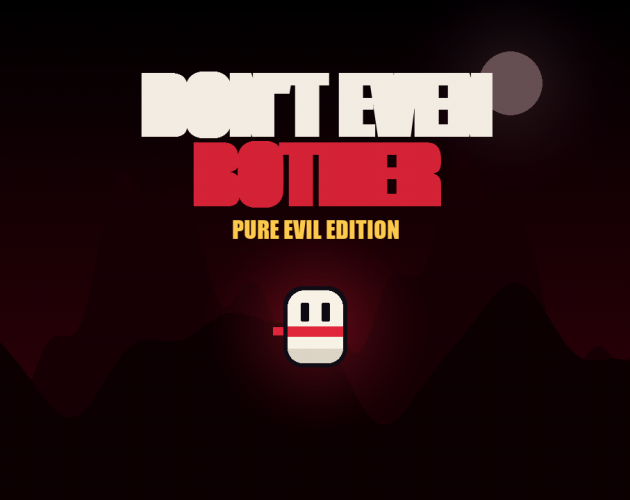
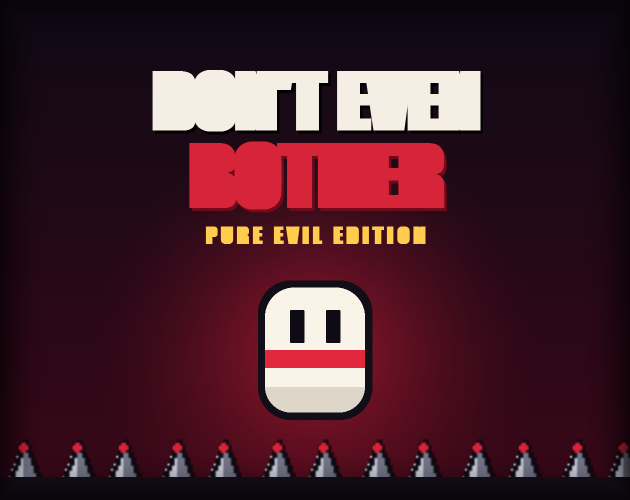
Redraw the cover image so it works as a thumbnail
The first one was cramped and mostly empty: small type, a character floating
in dead space, nothing to look at. itch shows this at 315x250 in listings, so
it has to survive being shrunk.

Now drawn at double size and scaled down to keep the type crisp, with the
title auto-fitted so it can never touch the frame, and composed to fill it:
title above, the character over a bed of spikes below. Checked at 315x250.

diff --git a/Dont even bother/dev_tools/screenshots.py b/Dont even bother/dev_tools/screenshots.py
@@ -81,27 +81,61 @@ def gameplay(game, level, frames, name):
 
 
 def cover(game):
-    """630x500 cover image: the store's thumbnail everywhere on itch."""
-    from graphics import draw_text, Background, dim
-    from settings import THEMES, BLOOD, PAPER, GOLD, VIRTUAL_W, VIRTUAL_H
+    """630x500 cover image - the thumbnail itch shows everywhere.
+
+    Drawn at double size and scaled down, so the type stays crisp, and
+    composed to fill the frame: title up top, the character over a bed of
+    spikes at the bottom. It has to read at thumbnail size, so contrast and
+    size matter more than detail.
+    """
+    from graphics import draw_text, render_text, glow_circle, vertical_gradient, TileArt
+    from settings import THEMES, BLOOD, DARK_BLOOD, PAPER, GOLD, INK, TILE
     import cosmetics
-    from scenes import draw_character_display
 
-    big = pygame.Surface((VIRTUAL_W, VIRTUAL_H))
-    Background(THEMES["abyss"], seed=5).draw(big, 0)
-    dim(big, 110)
+    W, H = 1260, 1000                      # 2x the final size
+    canvas = pygame.Surface((W, H))
+    canvas.blit(pygame.transform.smoothscale(
+        vertical_gradient(8, H, (16, 10, 22), (58, 8, 24)), (W, H)), (0, 0))
+
+    # a red bloom behind where the character stands
+    glow = glow_circle(460, (215, 35, 58), 165)
+    canvas.blit(glow, (W // 2 - 460, 700 - 460))
+
+    def fit(text, y, size, colour, max_w, shadow=None):
+        """Shrink until it fits the frame - never let the title touch the edge."""
+        while size > 10 and render_text(text, size, colour, "display", True).get_width() > max_w:
+            size -= 2
+        if shadow:
+            draw_text(canvas, text, (W // 2 + 5, y + 6), size, shadow, "display", bold=True)
+        draw_text(canvas, text, (W // 2, y), size, colour, "display", bold=True)
+
+    fit("DON'T EVEN", 200, 150, PAPER, W - 120, shadow=(0, 0, 0))
+    fit("BOTHER", 350, 165, BLOOD, W - 120, shadow=DARK_BLOOD)
+    draw_text(canvas, "P U R E   E V I L   E D I T I O N", (W // 2, 470), 44, GOLD, "display", bold=True)
+
+    # spikes along the floor: says "platformer that kills you" without a word.
+    # They have to survive being shrunk to a thumbnail, so they are big.
+    art = TileArt(THEMES["abyss"])
+    size = TILE * 5
+    spike = pygame.transform.smoothscale(art.spikes["up"], (size, size))
+    for x in range(-size // 2, W + size, size):
+        canvas.blit(spike, (x, H - size))
+    pygame.draw.rect(canvas, (22, 15, 26), (0, H - 46, W, 46))
+
+    # the character, mid-jump just above the spikes - the whole game in one image
     skin = cosmetics.SKINS[0]
-    draw_character_display(big, skin, (VIRTUAL_W // 2, 470), 3.1, 0.0, glow=True, bright=True)
-    draw_text(big, "DON'T EVEN", (VIRTUAL_W // 2, 150), 116, PAPER, "display", bold=True)
-    draw_text(big, "BOTHER", (VIRTUAL_W // 2, 250), 116, BLOOD, "display", bold=True)
-    draw_text(big, "PURE EVIL EDITION", (VIRTUAL_W // 2, 330), 34, GOLD, "display")
+    body = pygame.Rect(0, 0, 200, 250)
+    body.center = (W // 2, 700)
+    cosmetics.draw_body(canvas, skin, body)
 
-    # crop to the cover's aspect, then scale: keeps the art rather than squashing it
-    target_w, target_h = 630, 500
-    crop_h = VIRTUAL_H
-    crop_w = int(crop_h * target_w / target_h)
-    crop = big.subsurface(((VIRTUAL_W - crop_w) // 2, 0, crop_w, crop_h)).copy()
-    out = pygame.transform.smoothscale(crop, (target_w, target_h))
+    # darken the corners so the middle carries the eye
+    edge = pygame.Surface((W, H), pygame.SRCALPHA)
+    for i in range(90):
+        a = int(150 * (1 - i / 90) ** 1.7)
+        pygame.draw.rect(edge, (0, 0, 0, a), (i, i, W - i * 2, H - i * 2), 2)
+    canvas.blit(edge, (0, 0))
+
+    out = pygame.transform.smoothscale(canvas, (630, 500))
     path = os.path.join(OUT, "cover.png")
     pygame.image.save(out, path)
     print(f"  {'cover.png':<24} {os.path.getsize(path) / 1024:6.0f} KB  (630x500)")
